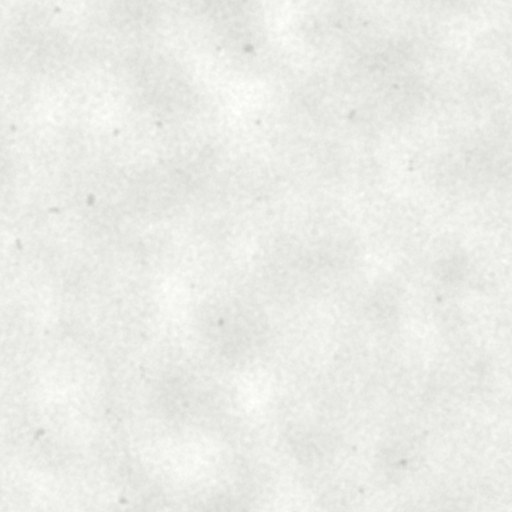
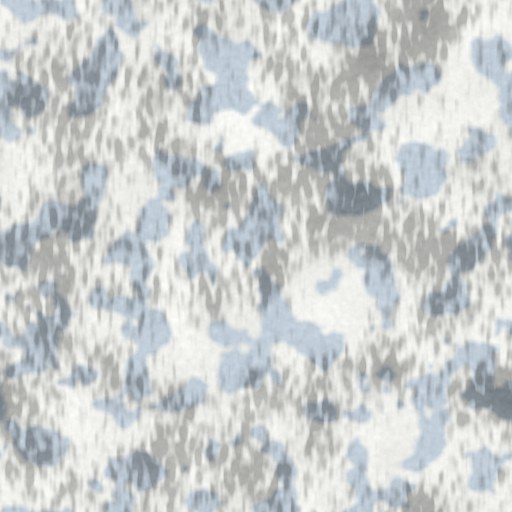
Casas no padrão da referência de favela: reboco descascado, zinco oxidado, pichação
Substitui o visual das casas pelo estilo da referência, mantendo os colisores como
estavam e sem textura nova na memória de vídeo (as 16 continuam em 0,88 MB).

TEXTURAS (scripts/texturas.py, que reproduz assets/tex/ byte a byte)

· reboco: placa descascada mostrando CIMENTO, não tijolo. A tinta da casa entra por
  material.color, que multiplica o mapa inteiro — tijolo vermelho pintado aqui sairia
  azul numa casa azul. Tijolo aparente de verdade é geometria separada (abaixo).
  A forma da placa custou três tentativas, e as duas erradas estão comentadas no
  arquivo: oitava única em frequência baixa dá camuflagem de manchas de um metro;
  oitava única em frequência alta dá chuvisco de pintinhas. As duas falham pelo mesmo
  motivo — uma banda de frequência só devolve bolhas de UM tamanho. Reboco caído é
  multi-escala com a escala grande dominando: 3 oitavas, persistência .45.
  Cobertura em 15% (era 28%: metade e metade o olho lê como camuflagem, não como
  parede suja) e degrau de relevo em milímetros — a .32 a oclusão calculada mais o
  aoMap do material somavam e a falha saía PRETA na tela.
· telha: chapa de zinco ondulada enferrujando, com a ferrugem instalada nas CALHAS da
  onda (onde a água para). As tintas de telhado ficaram claras de propósito: a
  ferrugem agora está no albedo e tinta escura por cima mataria o laranja.
· tijolo: tom velho e argamassa suja. O laranja saturado de antes lia como parede de
[…]

diff --git a/src/WorldGenerator.js b/src/WorldGenerator.js
@@ -4,14 +4,18 @@ import{mergeGeometries}from'three/addons/utils/BufferGeometryUtils.js';
 import{scene}from'./core.js';
 import{obterElevacao}from'./Terrain.js';
 import{registrarObstaculo,superficiesAndaveis,obstaculos,obstaculosPedestres,marcarObstaculoMovel}from'./Physics.js';
-import{bmat,matReboco,matTelha,matConcreto,matMadeira,matTerraArada,matTerraBatida,uvPorMetro,tijolo,concreto,janela,janelaAcesa,molduraJanela,porta,agua,posteMat,folhaMat,folhaClara,criarSombraContato}from'./Materials.js';
+import{bmat,matReboco,matTelha,matConcreto,matMadeira,matTerraArada,matTerraBatida,graffiteMat,uvPorMetro,tijolo,concreto,janela,janelaAcesa,molduraJanela,porta,agua,posteMat,folhaMat,folhaClara,criarSombraContato}from'./Materials.js';
 import{POLOS}from'./Poles.js';
 // O degrau da escadaria é derivado do step-up do jogador: um número solto aqui viraria escada
 // intransponível na primeira vez que a altura do personagem mudasse.
 import{ALTURA_DEGRAU}from'./Player.js';
 
 export const bairro=new THREE.Group();scene.add(bairro);
-const coresBairro=[0xb5651d,0x8b4513,0xc77845,0x9b8068,0x6f7773,0xd09a58,0x7d5c46];
+// Paleta encardida, tirada da referência de favela: vermelho de tijolo sujo, ocre, cinza-azulado,
+// creme desbotado, salmão queimado. Antes eram laranjas saturados, que com a textura de reboco nova
+// (quase branca, com cimento escuro à mostra) sairiam berrantes — a tinta MULTIPLICA o mapa, então
+// cor forte aqui vira plástico. Tom baixo é o que deixa a textura aparecer.
+const coresBairro=[0x9a5347,0xb08a4e,0x93a09e,0xc2b294,0x7d6b57,0xa8563f,0x6f7b7d];
 // Largura da escadaria e a margem de encaixe na parede — compartilhadas entre a escadaria e a mureta da
 // casa (ver casaBairro) pra garantir que a mureta sempre cubra o vão da escadaria, sem depender de dois
 // números iguais mantidos em lugares separados.
@@ -19,6 +23,27 @@ const ESCADA_LARGURA=1,ESCADA_MARGEM=.03;
 
 // Todo bloco com material TEXTURADO ganha UV em metros: sem isto uma parede de 6 m e uma mureta de
 // 12 cm receberiam a mesma textura esticada, e o tijolo sairia gigante num e minúsculo no outro.
+// ===== DECALQUE DE GRAFFITE =====
+// Quatro planos, um por quadrante do atlas. A escolha da tag mora na UV da GEOMETRIA, não numa
+// textura por casa: assim as quatro pichações do bairro dividem uma textura e um material só.
+// Criadas uma vez e reusadas por todas as paredes que recebem pichação.
+const GEOS_GRAFFITE=[[0,0],[1,0],[0,1],[1,1]].map(([qx,qy])=>{
+  const g=new THREE.PlaneGeometry(1,1);
+  const uv=g.attributes.uv;
+  for(let i=0;i<uv.count;i++)uv.setXY(i,(uv.getX(i)+qx)*.5,(uv.getY(i)+qy)*.5);
+  uv.needsUpdate=true;
+  return g;
+});
+// Cola uma pichação na fachada. `larg` é a largura em metros; a altura acompanha a proporção do
+// quadrante (quadrado), e o plano fica 4 cm à frente da parede.
+function graffite(parent,indice,x,y,z,larg){
+  const m=new THREE.Mesh(GEOS_GRAFFITE[indice%GEOS_GRAFFITE.length],graffiteMat);
+  m.position.set(x,y,z);m.scale.set(larg,larg,1);
+  m.castShadow=false;m.receiveShadow=false;// decalque não projeta nem recebe sombra: é tinta na parede
+  parent.add(m);
+  return m;
+}
+
 function bloco(geo,material,x,y,z,parent=bairro){if(material&&material.map)uvPorMetro(geo);const m=new THREE.Mesh(geo,material);m.position.set(x,y,z);m.castShadow=true;m.receiveShadow=true;parent.add(m);return m}
 
 // ===== ESCADARIA DE VIELA =====
@@ -178,16 +203,39 @@ function construirPortaRefugio(g,d){
 // draw calls — a mesma malha, só mais alta — enquanto um baldrame separado custaria +111 malhas.
 // `assentar=false` é pro andar de cima do sobrado, que se apoia na casa e não no chão.
 function casaBairro(x,z,w=6,d=6,h=3,cor=0xd87957,tipo=0,registrar=true,ladoEscada=0,corTelhado=0x888888,refugio=false,assentar=true){const g=new THREE.Group();const terrenoY=obterElevacao(x,z);g.position.set(x,terrenoY,z);g.rotation.y=z>0?Math.PI:0;g.userData={bairroCasa:true,cor,tipo};bairro.add(g);const fachada=matReboco(cor);
+// Variação ESTÁVEL por posição: a mesma casa recebe sempre a mesma pichação, o mesmo rodapé e o mesmo
+// telheiro. Math.random() aqui faria o bairro trocar de cara a cada carregamento — e o jogador decora
+// o caminho pelas casas, então a fachada precisa ser sempre a mesma.
+const semente=Math.abs(Math.round(x*7.3+z*13.7));
 let afundar=0;
 if(assentar){let menor=terrenoY;for(const sx of[-1,1])for(const sz of[-1,1])menor=Math.min(menor,obterElevacao(x+sx*w/2,z+sz*d/2));afundar=Math.max(0,terrenoY-menor)+.12}
-const casca=refugio?construirCascaCasa(g,w,h,d,fachada,afundar):null;if(refugio)g.userData.pecaPorta=construirPortaRefugio(g,d);const paredeMesh=casca?null:bloco(new THREE.BoxGeometry(w,h+afundar,d),fachada,0,h/2-afundar/2,0,g);const frente=new THREE.Mesh(new THREE.BoxGeometry(w*.7,.1,.04),concreto);frente.position.set(0,.08,d/2+.025);frente.castShadow=true;frente.receiveShadow=true;g.add(frente);const doorHeight=PORTA_ALTURA;if(!refugio)bloco(new THREE.BoxGeometry(.95,doorHeight,.08),porta,0,doorHeight/2,d/2+.07,g);for(const xx of [-w*.27,w*.27]){bloco(new THREE.BoxGeometry(1.22,1.02,.05),molduraJanela,xx,h*.56,d/2+.05,g);bloco(new THREE.BoxGeometry(1.05,.85,.06),Math.random()<.22?janelaAcesa:janela,xx,h*.56,d/2+.12,g);bloco(new THREE.BoxGeometry(1.18,.07,.08),concreto,xx,h*.56,d/2+.20,g)}const laje=bloco(new THREE.BoxGeometry(w+.12,.12,d+.12),matTelha(corTelhado),0,h+.06,0,g);superficiesAndaveis.push(laje);const muretaY=h+.12+.25;
+const casca=refugio?construirCascaCasa(g,w,h,d,fachada,afundar):null;if(refugio)g.userData.pecaPorta=construirPortaRefugio(g,d);const paredeMesh=casca?null:bloco(new THREE.BoxGeometry(w,h+afundar,d),fachada,0,h/2-afundar/2,0,g);const frente=new THREE.Mesh(new THREE.BoxGeometry(w*.7,.1,.04),concreto);frente.position.set(0,.08,d/2+.025);frente.castShadow=true;frente.receiveShadow=true;g.add(frente);const doorHeight=PORTA_ALTURA;if(!refugio)bloco(new THREE.BoxGeometry(.95,doorHeight,.08),porta,0,doorHeight/2,d/2+.07,g);for(const xx of [-w*.27,w*.27]){bloco(new THREE.BoxGeometry(1.22,1.02,.05),molduraJanela,xx,h*.56,d/2+.05,g);bloco(new THREE.BoxGeometry(1.05,.85,.06),Math.random()<.22?janelaAcesa:janela,xx,h*.56,d/2+.12,g);bloco(new THREE.BoxGeometry(1.18,.07,.08),concreto,xx,h*.56,d/2+.20,g)}
+// ===== FACHADA ENCARDIDA (referência de favela) =====
+// Rodapé de tijolo aparente: na favela o reboco cai primeiro na base, onde bate chuva e pé. É UMA
+// caixa um tico maior que a casa, cobrindo os quatro lados de uma vez — 1 draw call, não 4.
+// O tijolo entra SEM tinta (material `tijolo` compartilhado, branco): é o único jeito de ter tijolo
+// vermelho de verdade numa casa pintada de azul, já que `color` MULTIPLICA o mapa inteiro.
+// A casa-refúgio fica de fora: ela é OCA, e uma caixa maciça na base emparedaria a porta por dentro.
+if(!refugio&&semente%3===0){const alturaBase=.55+(semente%5)*.09;bloco(new THREE.BoxGeometry(w+.04,alturaBase+afundar,d+.04),tijolo,0,alturaBase/2-afundar/2,0,g)}
+// Pichação: 1 casa em cada 5, ao lado da porta. O índice da tag soma a altura pra que os dois andares
+// de um sobrado (que dividem o mesmo x,z) não recebam a MESMA tag, uma empilhada na outra.
+if(semente%5===0)graffite(g,semente+Math.round(h*10),(semente%2?1:-1)*w*.28,.78,d/2+.06,1.35);
+const laje=bloco(new THREE.BoxGeometry(w+.12,.12,d+.12),matTelha(corTelhado),0,h+.06,0,g);superficiesAndaveis.push(laje);const muretaY=h+.12+.25;
 // A escadaria (quando existe) fica FORA da largura w da casa (ver criarEscadariaViela). Sem estender a
 // mureta frontal/traseira até lá, sobra um canto sem parapeito bem onde a escadaria termina — o jogador
 // caminha por cima do telhado, passa reto por esse canto aberto e cai direto no vão entre as casas.
 const alcanceEscada=w/2+ESCADA_LARGURA+ESCADA_MARGEM;
 const muretaMinX=ladoEscada===-1?-alcanceEscada:-(w/2+.06),muretaMaxX=ladoEscada===1?alcanceEscada:(w/2+.06);
 const muretaLargura=muretaMaxX-muretaMinX,muretaCentroX=(muretaMaxX+muretaMinX)/2;
-const muretas=[bloco(new THREE.BoxGeometry(muretaLargura,.5,.12),matTelha(corTelhado),muretaCentroX,muretaY,d/2,g),bloco(new THREE.BoxGeometry(muretaLargura,.5,.12),matTelha(corTelhado),muretaCentroX,muretaY,-d/2,g)];if(ladoEscada!==1)muretas.push(bloco(new THREE.BoxGeometry(.12,.5,d+.12),matTelha(corTelhado),w/2,muretaY,0,g));if(ladoEscada!==-1)muretas.push(bloco(new THREE.BoxGeometry(.12,.5,d+.12),matTelha(corTelhado),-w/2,muretaY,0,g));g.userData.muretas=muretas;casasPos.push({x,z,w,d});if(tipo===2){const sacada=bloco(new THREE.BoxGeometry(w*.62,.12,.75),concreto,0,h*.62,d/2+.42,g);for(const xx of [-w*.3,-w*.1,w*.1,w*.3])bloco(new THREE.BoxGeometry(.05,.8,.05),posteMat,xx,h*.62+.38,d/2+.73,g)}if(tipo!==1){const tank=bloco(new THREE.CylinderGeometry(.38,.38,.62,10),agua,w*.22,h+.55,-d*.12,g);tank.castShadow=true}g.userData.paredeMesh=paredeMesh;if(registrar){if(casca)casca.forEach(registrarObstaculo);else registrarObstaculo(paredeMesh);muretas.forEach(registrarObstaculo)}return g}
+const muretas=[bloco(new THREE.BoxGeometry(muretaLargura,.5,.12),matTelha(corTelhado),muretaCentroX,muretaY,d/2,g),bloco(new THREE.BoxGeometry(muretaLargura,.5,.12),matTelha(corTelhado),muretaCentroX,muretaY,-d/2,g)];if(ladoEscada!==1)muretas.push(bloco(new THREE.BoxGeometry(.12,.5,d+.12),matTelha(corTelhado),w/2,muretaY,0,g));if(ladoEscada!==-1)muretas.push(bloco(new THREE.BoxGeometry(.12,.5,d+.12),matTelha(corTelhado),-w/2,muretaY,0,g));g.userData.muretas=muretas;casasPos.push({x,z,w,d});// Varanda de MADEIRA (era laje de concreto com grade de metal): a referência tem sacada de tábua, e o
+// conjunto de madeira já existe pro celeiro e as portas — reaproveitar custa zero textura nova. O
+// corrimão é 1 malha a mais e só nas casas tipo 2 (~19 no bairro), o que cabe no orçamento do celular.
+if(tipo===2){const mad=matMadeira(0x6b4a30);bloco(new THREE.BoxGeometry(w*.62,.1,.8),mad,0,h*.62,d/2+.44,g);for(const xx of [-w*.3,-w*.1,w*.1,w*.3])bloco(new THREE.BoxGeometry(.06,.85,.06),mad,xx,h*.62+.42,d/2+.8,g);bloco(new THREE.BoxGeometry(w*.62,.07,.07),mad,0,h*.62+.82,d/2+.8,g)}
+// Telheiro de zinco sobre a porta, só no tipo 1 — que é o tipo sem sacada e sem caixa d'água, e era a
+// casa lisa do bairro. Inclinado pra frente: telha na horizontal não lê como telheiro, lê como prateleira.
+// Fora do refúgio: lá a placa vermelha que marca o esconderijo mora exatamente nesse espaço.
+if(tipo===1&&!refugio){const telheiro=bloco(new THREE.BoxGeometry(1.9,.07,.8),matTelha(corTelhado),0,PORTA_ALTURA+.26,d/2+.34,g);telheiro.rotation.x=.18}
+if(tipo!==1){const tank=bloco(new THREE.CylinderGeometry(.38,.38,.62,10),agua,w*.22,h+.55,-d*.12,g);tank.castShadow=true}g.userData.paredeMesh=paredeMesh;if(registrar){if(casca)casca.forEach(registrarObstaculo);else registrarObstaculo(paredeMesh);muretas.forEach(registrarObstaculo)}return g}
 function sobrado(x,z,w,d,h,cor,ladoEscada=0,corTelhado=0x888888){const g=casaBairro(x,z,w,d,h,cor,2,true,ladoEscada,corTelhado);const up=casaBairro(x,z,w*.86,d*.82,h*.72,cor===tijolo.color?.getHex?.()?0xd87957:0xe8c45d,1,false,0,corTelhado,false,false);up.position.y=obterElevacao(x,z)+h+.18;registrarObstaculo(up.userData.paredeMesh);up.userData.muretas.forEach(registrarObstaculo);return g}
 // A árvore nasce NO TERRENO. Ela ficava em y=0 fixo, e o terreno do mapa vai de -2,5 a +3,8 m: as 11
 // árvores estavam todas fora do chão — a de (-18,72) enterrada 3,8 m e as das bordas boiando 2,5 m no ar.
@@ -263,7 +311,9 @@ const CELL_W=6,CELL_D=4.8,BECO=2.4,BLOCK_COLS=12,BLOCK_ROWS=8;let casaIndex=0;
 const MERCADO={x:0,z:-18,w:9,d:7};
 const xDaColuna=c=>-36+c*CELL_W+Math.floor(c/4)*BECO;
 const naPraca=(x,z)=>Math.abs(x-MERCADO.x)<(CELL_W+MERCADO.w)/2-.1&&Math.abs(z-MERCADO.z)<(CELL_D+MERCADO.d)/2-.1;
-const telhados=[0x8a8a82,0x9c958a,0x7f8a7d,0x8f7f6e,0x87877f,0x9a8f7c];
+// Tintas de telhado CLARAS de propósito: a ferrugem agora está no albedo da textura, e tinta escura
+// por cima mataria o laranja. Cada tom dá um nível diferente de oxidação sem custar textura nova.
+const telhados=[0xb8b2a8,0xa8a49c,0xc0b09c,0x9e9a92,0xb0a08c,0xaaa5a0];
 for(let row=0;row<BLOCK_ROWS;row++){for(let col=0;col<BLOCK_COLS;col++){const i=casaIndex++;const x=-36+col*CELL_W+Math.floor(col/4)*BECO;const z=-42+row*CELL_D+Math.floor(row/3)*BECO;const h=i%7===0?3.6:i%3===0?3.2:2.8;const tipo=i%5===0?1:i%4===0?2:i%3;const cor=coresBairro[i%coresBairro.length];const corTelhado=telhados[i%telhados.length];
 // Escada precisa de viela nos DOIS lados que importam, e antes só a primeira era checada:
 //  · AO LADO (beco entre blocos de 4 colunas) — é onde a escadaria encosta;

diff --git a/src/Materials.js b/src/Materials.js
@@ -113,6 +113,17 @@ export const coleteMat=new THREE.MeshStandardMaterial({color:0x14181f,roughness:
 // Faixa/ombreira um tico mais clara: sem ela o colete vira um bloco preto chapado contra a camisa escura.
 export const coleteFaixaMat=new THREE.MeshStandardMaterial({color:0x2b323d,roughness:.7});
 
+// ===== GRAFFITE =====
+// Decalque: um plano fino colado na fachada, com o traço no ALFA. É o jeito de ter pichação sem uma
+// segunda textura por casa — o atlas tem 4 tags e cada parede escolhe uma pela UV da própria
+// geometria (ver `geometriaGraffite` no WorldGenerator), então as 4 dividem UMA textura e UM material.
+// `depthWrite:false` + polygonOffset: o plano fica a 3 cm da parede e sem isso brigaria por z-fighting
+// com ela nas distâncias em que o buffer de profundidade perde precisão.
+const texGraffite=tex('assets/tex/graffite.png',true);
+export const graffiteMat=new THREE.MeshStandardMaterial({
+  map:texGraffite,transparent:true,alphaTest:.06,roughness:.95,metalness:0,
+  depthWrite:false,polygonOffset:true,polygonOffsetFactor:-2,polygonOffsetUnits:-2});
+
 // Mochila dos pacotes: lona escura esverdeada com detalhe mais claro, pra ler como mochila e não
 // como o colete (que é preto-azulado). A diferença de tom é o que deixa distinguir os dois de longe.
 export const mochilaMat=new THREE.MeshStandardMaterial({color:0x2f3a28,roughness:.85});

diff --git a/scripts/texturas.py b/scripts/texturas.py
@@ -82,23 +82,80 @@ def salvar(nome, albedo, h, rough, metal=None, forca_normal=2.0, ao_raio=8):
 def cinza(v):
     return np.stack([v, v, v], -1)
 
-# ============================ REBOCO PINTADO ============================
-# É a parede das casas. Fica QUASE BRANCO de propósito: a cor de cada casa entra por material.color,
-# e o mapa só carrega a textura. Um albedo colorido aqui multiplicaria as duas cores e sujaria o tom.
+# ============================ REBOCO DESCASCADO ============================
+# É a parede das casas, e o traço mais forte da referência de favela: o reboco cai em placas e o
+# CIMENTO CRU aparece por baixo, com sujeira escorrendo do telhado pra baixo.
+#
+# UMA RESTRIÇÃO MANDA NO DESENHO DESTA TEXTURA: a cor de cada casa entra por `material.color`, que
+# MULTIPLICA o mapa inteiro. Então não dá pra pintar tijolo vermelho no descascado — numa casa azul o
+# tijolo sairia azul. O que aparece na falha é cimento DESSATURADO (cinza), que multiplicado por
+# qualquer tinta continua lendo como cimento. Tijolo aparente de verdade existe no jogo, mas como
+# geometria separada com o material `tijolo` sem tinta (ver a faixa de embasamento no WorldGenerator).
 def reboco():
-    base = ruido_tileavel(RES, 3, 6, .55)
-    poro = ruido_tileavel(RES, 40, 3, .5)
-    manchas = ruido_tileavel(RES, 13, 4, .6)   # blobs menores: a 6 viravam borroes do tamanho da parede
-    h = base * .45 + poro * .55
-    # descascados: manchas onde o reboco caiu e aparece o cimento por baixo
-    casca = (manchas > .80).astype(float)      # menos cobertura: reboco descascado e ponto, nao parede podre
-    casca = blur(casca, 2)
-    h = h * (1 - casca * .5) - casca * .18
-    v = .82 + base * .12 + poro * .09 - casca * .12
+    base   = ruido_tileavel(RES,  3, 6, .55)   # ondulação larga da parede
+    poro   = ruido_tileavel(RES, 40, 3, .50)   # grão fino do reboco
+    # Frequência BAIXA é o que define a leitura: a 9 as falhas saíam do tamanho de moedas e a parede
+    # lia como mofo pintado de cinza. A 3,5 cada placa tem quase um metro, que é o tamanho de reboco
+    # que cai de verdade — e é o que aparece na referência.
+    # A FORMA DA PLACA foi o que mais custou a acertar, e as duas tentativas erradas ensinam o porquê:
+    #  · frequência baixa (3) com UMA oitava: falhas de quase um metro, todas do mesmo tamanho e
+    #    arredondadas — a casa virava CAMUFLAGEM de manchas escuras;
+    #  · frequência alta (7) com UMA oitava: falhas de 30 cm, mas de novo todas iguais e redondas —
+    #    a parede virava MEDIDA, um chuvisco de pintinhas espalhado por igual.
+    # O defeito comum é a oitava única: uma banda de frequência só devolve bolhas de UM tamanho.
+    # Reboco caído de verdade tem placa grande com borda rasgada e placa pequena ao lado. Isso é um
+    # campo multi-escala com a escala GRANDE dominando: 3 oitavas com persistência .45 (amplitudes
+    # 1 / .45 / .20) dão a mancha grande, o recorte irregular e a variação de tamanho de uma vez só.
+    placas = ruido_tileavel(RES,  5, 3, .45)   # onde a placa de reboco se soltou
+    borda  = ruido_tileavel(RES, 26, 2, .50)   # morde a borda da placa pra não virar bolha lisa
+
+    # A PLACA. Limiar sobre o ruído, mordido pelo ruído fino: é o recorte irregular que faz parecer
+    # reboco arrancado em vez de mancha pintada. ~28% da parede descasca.
+    # ~15% da parede descasca. A 28% o olho via DUAS cores em partes quase iguais e lia camuflagem:
+    # o que faz ler como favela é a falha ser EXCEÇÃO sobre a pintura, não metade dela.
+    caiu = ((placas + borda * .12 - .06) > .60).astype(float)
+    caiu_suave = blur(caiu, 2)
+    # Anel de borda: a beirada da placa é mais alta que o miolo, e é ela que pega a luz raspante.
+    beirada = np.clip(blur(caiu, 3) - caiu_suave, 0, 1) * 2.2
+
+    # SUJEIRA ESCORRIDA. Faixas verticais estreitas, de comprimento variado, que é como a água suja
+    # desce da laje. Feitas por ruído esticado em Y: um ruído de frequência alta em X e baixa em Y já
+    # é um escorrido, sem precisar de desenho.
+    faixaX = ruido_tileavel(RES, 30, 2, .5)
+    faixaY = ruido_tileavel(RES,  2, 3, .6)
+    escorrido = np.clip((faixaX * .80 + faixaY * .40 - .58) * 3.8, 0, 1)
+    # Estica em Y: a média corrida na vertical transforma a mancha em RASTRO, que é o que o escorrido
+    # de água suja é. Sem isto ficava um chuvisco, invisível na parede.
+    for _ in range(3):
+        escorrido = (escorrido + np.roll(escorrido, 1, 0) + np.roll(escorrido, 2, 0)
+                     + np.roll(escorrido, 4, 0) + np.roll(escorrido, 7, 0)) / 5
+    escorrido = np.clip(escorrido * 2.6, 0, 1) * (.5 + faixaY * .5)
+
+    # RELEVO. O reboco é uma casca POR CIMA do cimento: onde ele caiu, o nível baixa de verdade.
+    # ...mas POUCO. Com o degrau em .32 a oclusão calculada por `ocl` enegrecia a falha inteira e,
+    # somada ao aoMap do material no jogo, a placa saía quase PRETA na tela. O degrau real entre
+    # reboco e cimento é de milímetros, não de um palmo.
+    h = base * .40 + poro * .60
+    h = h * (1 - caiu_suave * .30) - caiu_suave * .05 + beirada * .12
+
+    # COR. Reboco quase branco (a tinta da casa entra por fora); o cimento exposto é mais escuro e
+    # mais neutro. O escorrido escurece os dois por igual, que é o que dá o aspecto encardido.
+    # O cimento a .52 contra reboco a .86 virava buraco preto depois de a tinta da casa multiplicar
+    # tudo. A .71 a falha continua legível e a parede segue lendo como UMA parede encardida.
+    reboco_v = .86 + base * .10 + poro * .08
+    cimento_v = .74 + poro * .09 + borda * .05
+    v = reboco_v * (1 - caiu_suave) + cimento_v * caiu_suave
+    v = v - escorrido * .30 - beirada * .05
     alb = cinza(v.clip(0, 1))
-    alb[..., 2] *= .985  # um fio mais quente que neutro
-    r = (.86 + poro * .10 + casca * .06).clip(.3, 1)
-    salvar("reboco", alb, h, r, forca_normal=1.4, ao_raio=6)
+    # O cimento puxa pro frio e o reboco pintado pro quente: a diferença de TEMPERATURA é o que separa
+    # os dois mesmo depois de a tinta da casa multiplicar tudo.
+    alb[..., 0] *= 1 - caiu_suave * .06
+    alb[..., 2] *= .985 + caiu_suave * .07
+
+    rough = (.84 + poro * .10 + caiu_suave * .10 + escorrido * .05).clip(.3, 1)
+    # forca_normal baixa (era 1,9): o degrau da placa entrava no normal e a luz do jogo sombreava a
+    # falha inteira; junto com o aoMap, a placa saía quase preta. O relevo do reboco é de milímetros.
+    salvar("reboco", alb, h, rough, forca_normal=1.4, ao_raio=6)
 
 # ============================ TIJOLO APARENTE ============================
 def tijolo():
@@ -116,30 +173,54 @@ def tijolo():
     gr = ruido_tileavel(RES, 30, 3, .5)
     h = (1 - massa) * (.72 + gr * .28) + massa * .12
     # tijolo avermelhado, argamassa cinza
-    r_ = .52 + tom * .22 + gr * .10
-    g_ = .26 + tom * .13 + gr * .09
-    b_ = .19 + tom * .09 + gr * .08
-    alb = np.stack([r_, g_, b_], -1)
-    cinzaM = cinza(np.full((RES, RES), .62) + gr * .12)
+    # Tijolo VELHO, não tijolo de loja: o laranja saturado que estava aqui (.52/.26/.19 com +.22 de
+    # variação) lia como parede de brinquedo. Tom mais baixo, menos separação entre tijolos e uma
+    # camada de encardido por cima é o que faz ler como embasamento exposto há anos.
+    encardido = ruido_tileavel(RES, 6, 2, .55)
+    r_ = .28 + tom * .09 + gr * .06
+    g_ = .17 + tom * .05 + gr * .05
+    b_ = .14 + tom * .04 + gr * .04
+    alb = np.stack([r_, g_, b_], -1) * (.62 + encardido * .34)[..., None]
+    # Argamassa suja, não branca: a .62 ela virava a cor DOMINANTE da parede (é uma grade contínua) e
+    # o tijolo aparecia como quadradinhos soltos dentro dela.
+    cinzaM = cinza(np.full((RES, RES), .34) + gr * .09)
     alb = alb * (1 - massa[..., None]) + cinzaM * massa[..., None]
     rough = (.88 + gr * .10 - massa * .04).clip(.4, 1)
     salvar("tijolo", alb, h, rough, forca_normal=3.2, ao_raio=5)
 
-# ============================ TELHA / LAJE ============================
-# Laje de cobertura com ondulação de fibrocimento: é o telhado mais comum de favela.
+# ============================ TELHA / ZINCO OXIDADO ============================
+# Telhado de favela é chapa ondulada enferrujando, não laje cinza. A ferrugem entra no ALBEDO e as
+# tintas de telhado (WorldGenerator) são claras de propósito, pra multiplicar sem matar o tom — cada
+# casa fica com um nível de oxidação diferente sem custar uma textura por casa.
 def telha():
     x = np.linspace(0, 1, RES, endpoint=False)[None, :] * np.ones((RES, 1))
-    # 16 ondas por ladrilho de 2 m davam 12 cm de passo: a essa densidade a telha vira ruido na tela.
-    # 10 ondas dao 20 cm, que e o passo da telha ondulada de verdade e le como telha a distancia.
+    # 10 ondas por ladrilho de 2 m = 20 cm de passo, que é o da telha ondulada de verdade. A 16 o
+    # passo caía pra 12 cm e a telha virava ruído na tela.
     onda = (np.sin(x * np.pi * 2 * 10) * .5 + .5) ** 1.4
-    sujeira = ruido_tileavel(RES, 8, 5, .6)
-    gr = ruido_tileavel(RES, 45, 2, .5)
-    h = onda * .7 + gr * .3
-    v = .58 + onda * .16 + sujeira * .22 - gr * .06
-    alb = cinza(v.clip(0, 1))
-    alb[..., 0] *= 1.02; alb[..., 2] *= .97
-    rough = (.90 + sujeira * .08).clip(.5, 1)
-    salvar("telha", alb, h, rough, forca_normal=2.6, ao_raio=7)
+
+    manchaFerrugem = ruido_tileavel(RES,  7, 5, .60)
+    pontos         = ruido_tileavel(RES, 30, 3, .50)
+    gr             = ruido_tileavel(RES, 45, 2, .50)
+
+    # A ferrugem se instala nas CALHAS da onda, onde a água para — por isso a máscara é multiplicada
+    # por (1-onda). É esse detalhe que faz a chapa parecer chapa e não uma textura de ruído listrada.
+    # O -.66 é o que deixa CHAPA à mostra. A .52 a ferrugem cobria quase tudo e o telhado virava uma
+    # mancha laranja uniforme — some a ondulação, some a leitura de metal, e sobra ruído colorido.
+    ferrugem = np.clip((manchaFerrugem * .8 + pontos * .35 - .66) * 3.0, 0, 1)
+    ferrugem = np.clip(ferrugem * (.55 + (1 - onda) * .75), 0, 1)
+
+    h = onda * .70 + gr * .22 + ferrugem * .08   # a ferrugem empola um pouco a chapa
+
+    zinco_v = .60 + onda * .17 - gr * .05
+    r_ = zinco_v * (1 - ferrugem) + (.52 + pontos * .16) * ferrugem
+    g_ = zinco_v * (1 - ferrugem) + (.30 + pontos * .11) * ferrugem
+    b_ = zinco_v * (1 - ferrugem) + (.20 + pontos * .07) * ferrugem
+    alb = np.stack([r_, g_, b_], -1).clip(0, 1)
+
+    # Chapa nova reflete; ferrugem é fosca e áspera. A diferença de roughness é metade da leitura.
+    rough = (.62 + ferrugem * .34 + gr * .06).clip(.4, 1)
+    metal = (1 - ferrugem) * .55
+    salvar("telha", alb, h, rough, metal, forca_normal=2.6, ao_raio=7)
 
 # ============================ CHÃO DE TERRA / VIELA ============================
 def chao():
@@ -192,7 +273,66 @@ def madeira():
     # forca_normal baixa: o veio é DESENHO, não sulco. A 2.0 a porta ganhava relevo de tronco lavrado.
     salvar("madeira", alb, h, rough, forca_normal=.9, ao_raio=4)
 
-for f in (reboco, tijolo, telha, chao, madeira):
+# ============================ GRAFFITE ============================
+# NÃO é tileável, e é o único mapa aqui que não é: graffite é uma peça única colada numa parede, não um
+# padrão que se repete. Sai como RGBA — o alfa é o traço, e o resto é transparente — pra entrar como
+# decalque num plano colado na fachada, sem precisar de uma segunda textura por casa.
+#
+# São quatro peças num atlas 2x2. Cada parede sorteia uma pelo deslocamento da UV, então quatro
+# graffites diferentes custam UMA textura e UM material no jogo inteiro.
+def graffite():
+    import math
+    from PIL import ImageDraw
+    lado = 512
+    im = Image.new("RGBA", (lado, lado), (0, 0, 0, 0))
+    d = ImageDraw.Draw(im)
+    r = np.random.default_rng(11)
+    # Cores de lata, um tom abaixo do puro: spray saturado contra reboco sujo lia como caneta
+    # fluorescente. E o traço leva CONTORNO ESCURO por baixo (ver `tag`), que é o que faz pichação
+    # parecer pichação e não rabisco — de longe o olho pega a massa escura, não a cor.
+    cores = [(198, 62, 54), (222, 186, 68), (66, 146, 190), (226, 224, 214), (118, 74, 156)]
+    TINTA_CONTORNO = (26, 22, 20)
+
+    def tag(ox, oy, w, hh, cor, traco):
+        """Um rabisco contínuo: pontos de controle sorteados, ligados por linha grossa. Não tenta
+        desenhar letra — de longe, numa parede de jogo, o que lê é o GESTO e a cor."""
+        n = r.integers(7, 12)
+        px = [ox + w * (.1 + .8 * (i / (n - 1))) for i in range(n)]
+        py = [oy + hh * (.25 + .5 * r.random()) for _ in range(n)]
+        # sobe e desce alternado: dá o zigue-zague de tag em vez de uma linha reta ondulada
+        for i in range(n):
+            py[i] += (hh * .22) * (1 if i % 2 else -1) * r.random()
+        pts = list(zip(px, py))
+        # Contorno primeiro, cor por cima: o traço fino de antes (5% da largura da tag) sumia na
+        # parede e lia como risco de caneta. Grosso e contornado é o que se enxerga do outro lado da rua.
+        d.line(pts, fill=TINTA_CONTORNO + (255,), width=traco + int(traco * .55), joint="curve")
+        d.line(pts, fill=cor + (255,), width=traco, joint="curve")
+        # respingo e contorno: o que separa "linha desenhada" de "spray"
+        for _ in range(int(w * .25)):
+            sx = ox + r.random() * w; sy = oy + r.random() * hh
+            if r.random() < .5: continue
+            rr = r.integers(1, 3)
+            d.ellipse([sx - rr, sy - rr, sx + rr, sy + rr], fill=cor + (int(60 + r.random() * 90),))
+        return pts
+
+    meio = lado // 2
+    for cx in (0, meio):
+        for cy in (0, meio):
+            cor = cores[int(r.integers(0, len(cores)))]
+            pts = tag(cx + meio * .07, cy + meio * .16, meio * .86, meio * .68, cor, int(meio * .12))
+            # segundo traço mais fino por cima, de outra cor: graffite raramente é de uma cor só
+            cor2 = cores[int(r.integers(0, len(cores)))]
+            d.line([(x + r.random() * 6 - 3, y + r.random() * 8 - 4) for x, y in pts],
+                   fill=cor2 + (210,), width=max(3, int(meio * .035)), joint="curve")
+
+    # Desfoca de leve o ALFA: borda de spray não é recorte de tesoura.
+    a = np.asarray(im.split()[3], dtype=float) / 255
+    a = blur(a, 1)
+    rgb = np.asarray(im.convert("RGB"), dtype=float) / 255
+    saida = np.dstack([rgb, np.clip(a * 1.15, 0, 1)])
+    Image.fromarray((saida * 255).astype(np.uint8)).save(f"{SAIDA}/graffite.png")
+
+for f in (reboco, tijolo, telha, chao, madeira, graffite):
     f()
     print("ok:", f.__name__)
 
